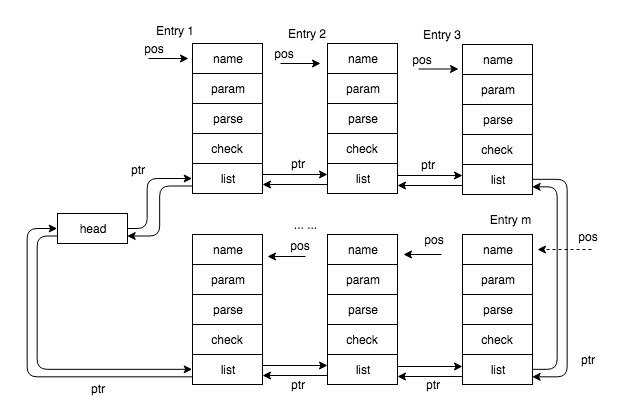
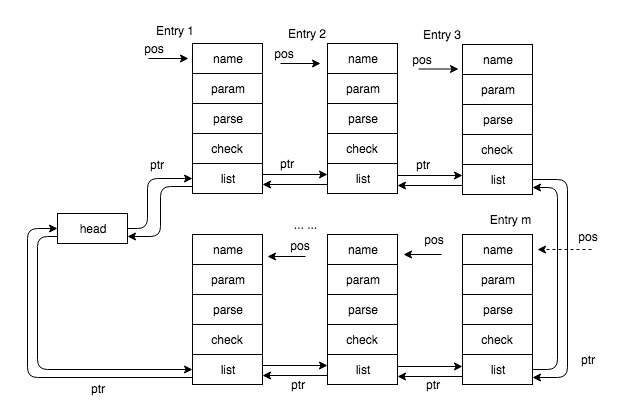
minor fix for k list

Changed region(s): [[0.0303, 0.0621, 0.9682, 0.9308], [0.4538, 0.0621, 0.5143, 0.0931]]

diff --git a/list/List.md b/list/List.md
@@ -37,7 +37,7 @@ struct list_head list;
 INIT_LIST_HEAD(head);
 ```
 
-<div align=center><img src="./res/list_init.jpg" width=24%></div>
+<div align=center><img src="./res/list_init.jpg" width=20%></div>
 
 > or you could define it as a function
 
